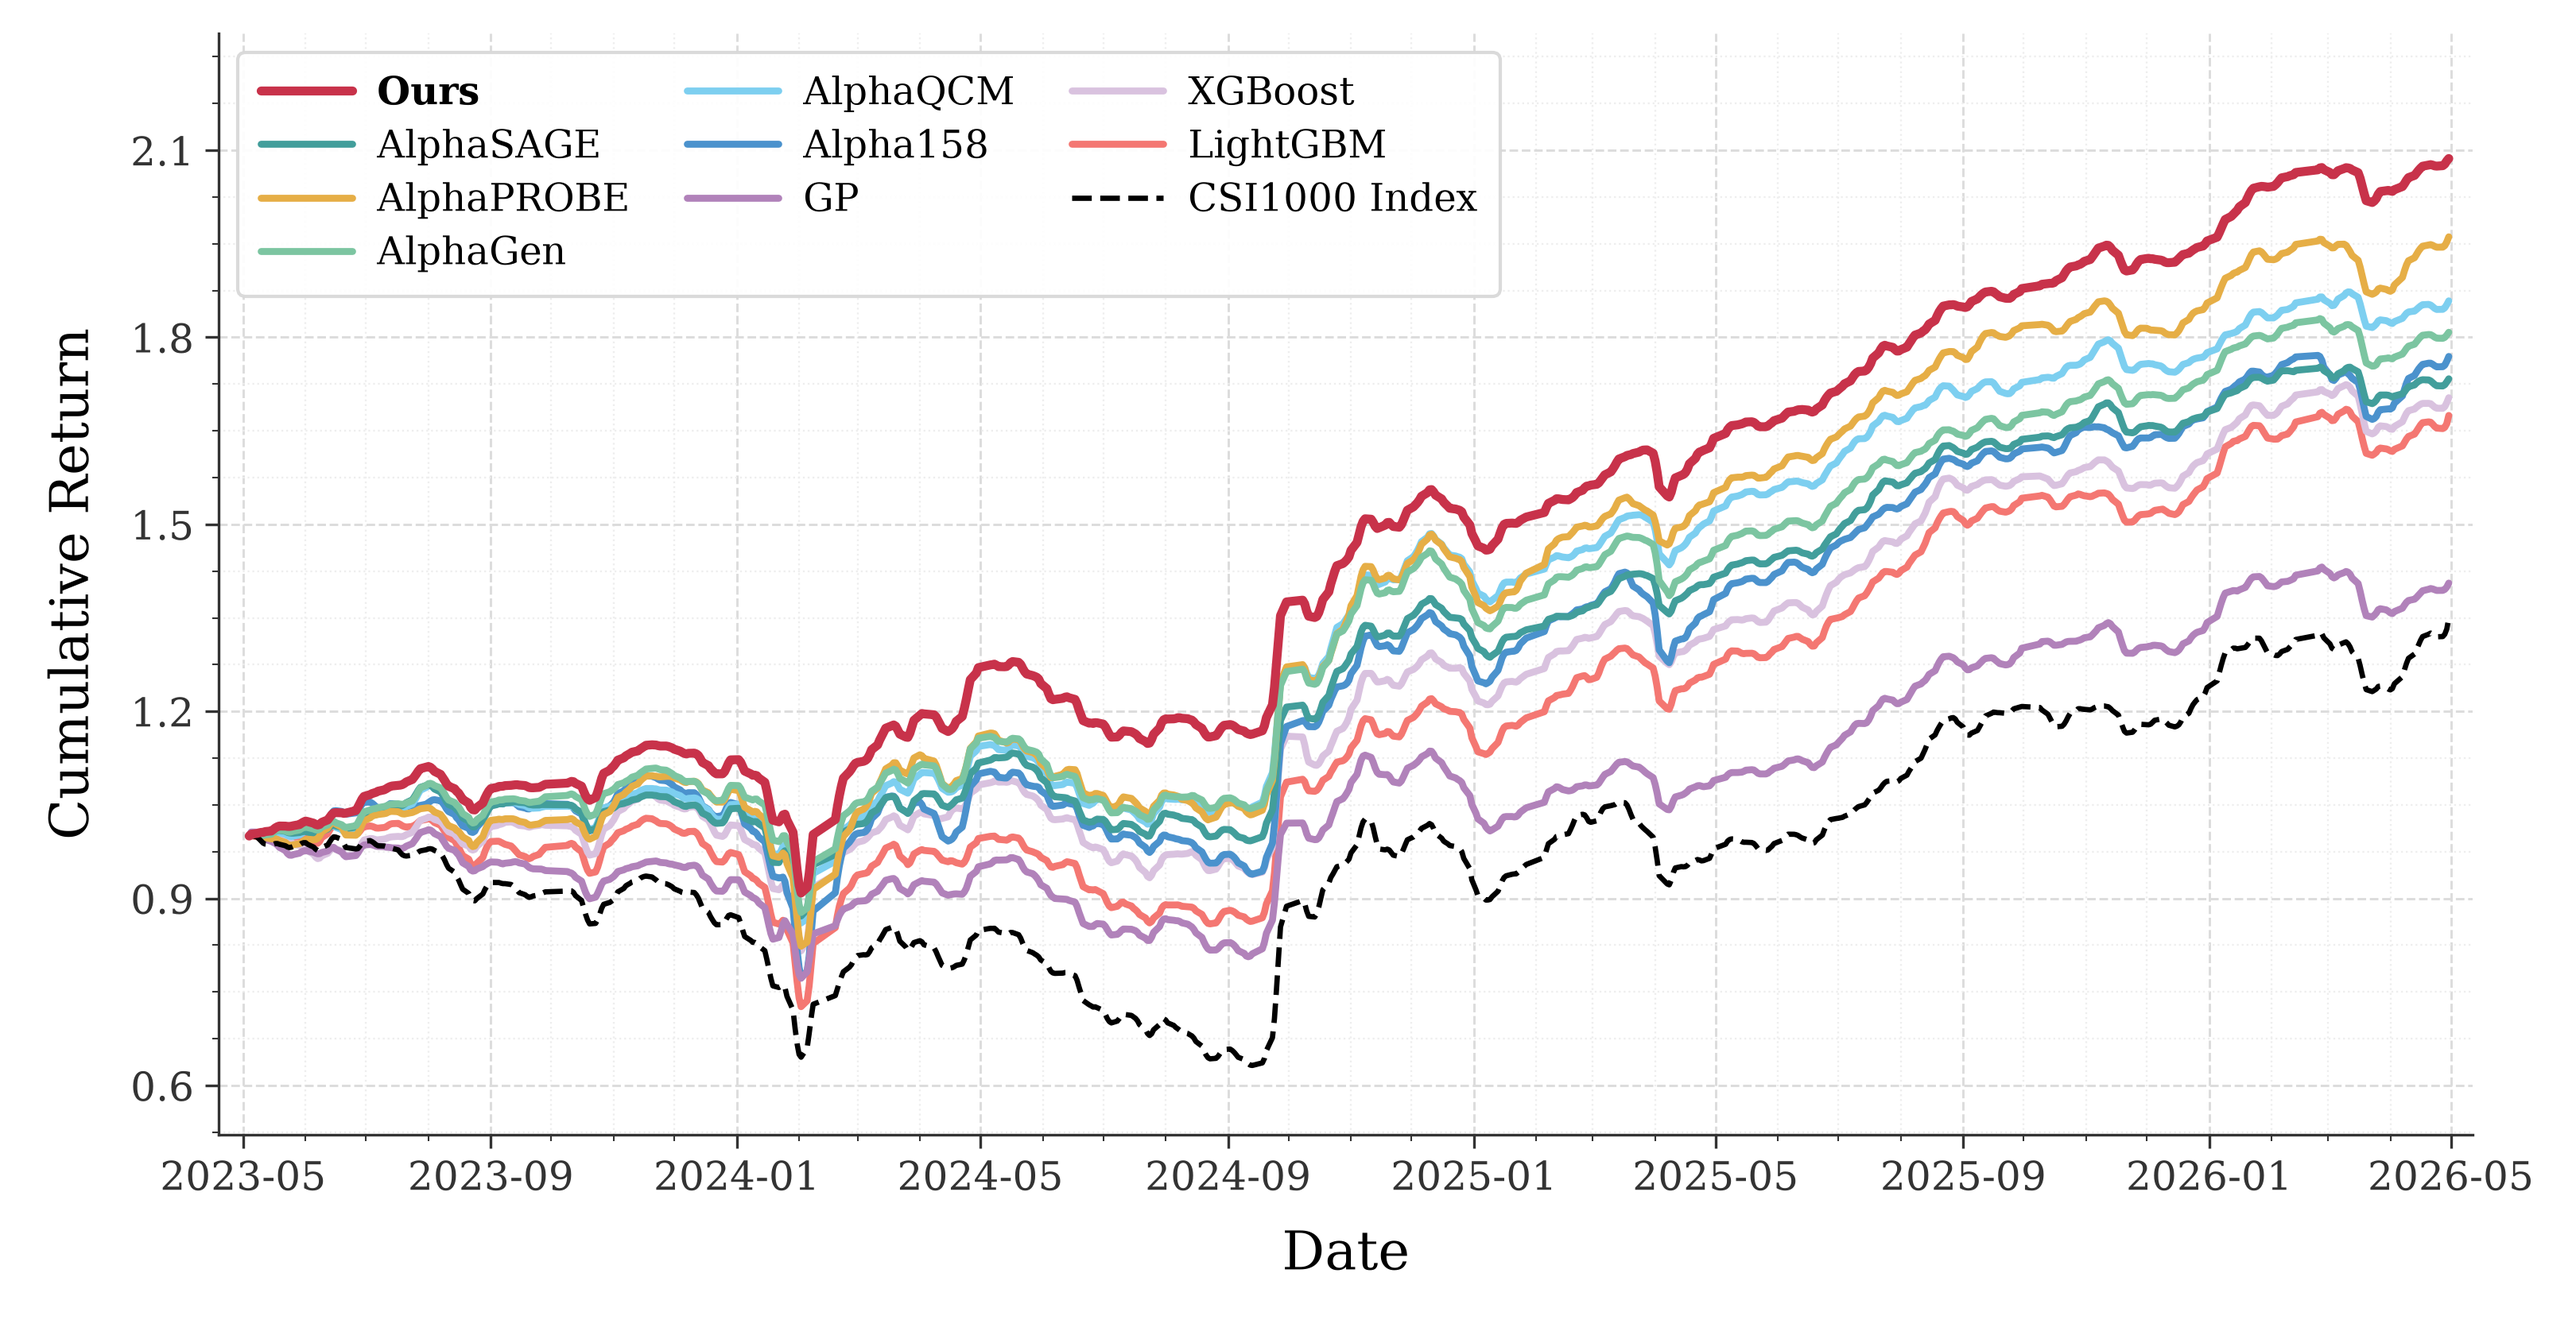
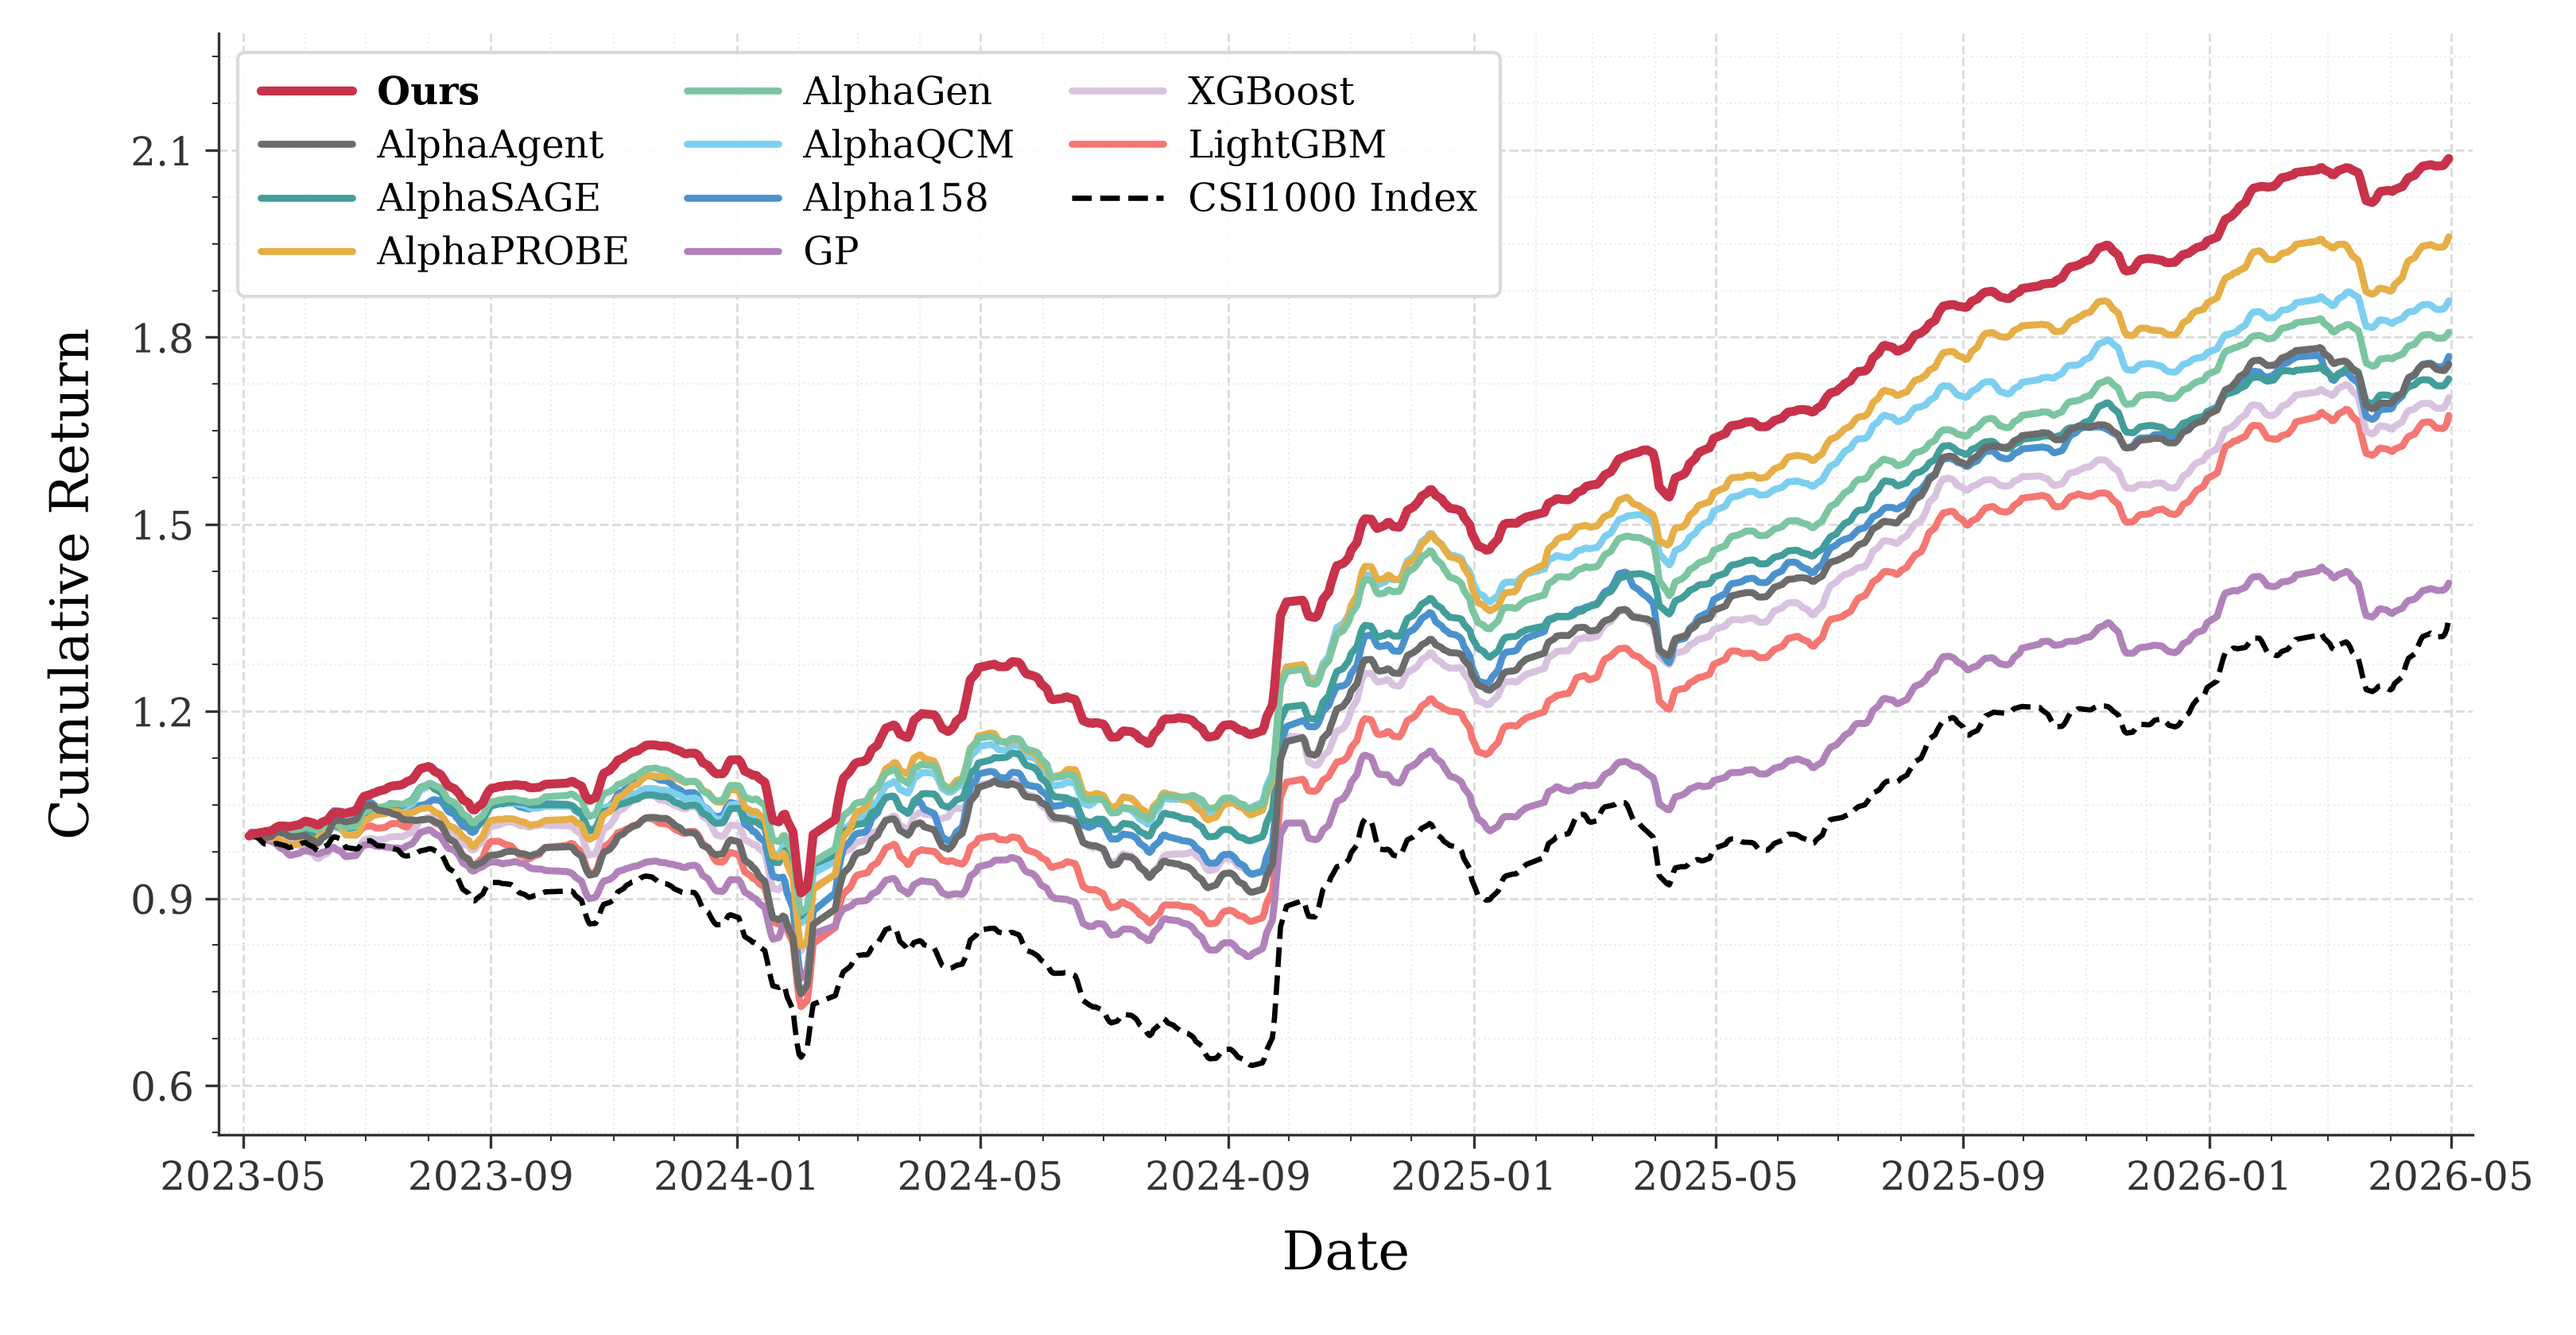
Add AlphaAgent to profit curves, extend AlphaAgent expression ops, ignore backups/export

diff --git a/plot_profit_curve.py b/plot_profit_curve.py
@@ -26,8 +26,9 @@ RUNS: dict = {
         "AlphaSAGE": {"path": "data/gfn_logs/pool_50/gfn_gnn_csi300_50_2-0.01-1.0-1.0-1.0-0.3-linear-0.0/ret_s.npy", "data_start_date": "2023-05-01"},
         "AlphaPROBE": {"path": "data/knowledge_logs/pool_50/kg_dag_and_bayesian_icir_and_mutl_new_no_decay_MiniMax-M3_5_csi300_0.5_7_50_0.9_50_20_0.006_True_True_False_True_0.7_0.1_0.05/adaptive_n20/round_20/ret_s.npy", "data_start_date": "2023-05-01"},
         "AlphaGen": {"path": "data/ppo_logs/pool_20/ppo_csi300_20_0-20260905132532/ppo_csi300_20_0_20260905132532/ret_s.npy", "data_start_date": "2023-05-01"},
-        "Ours": {"path": "data/cf_logs/20261013_225346_506634_csi300_0_MiniMax-M3/ret_s.npy", "data_start_date": "2023-05-01"},
+        "Ours": {"path": "data/cf_logs/20261024_020903_733059_csi300_0_gd-mobile-deepseek-v4.1-flash-1017/ret_s.npy", "data_start_date": "2023-05-01"},
 
+        "AlphaAgent": "data/logs/alphaagent/csi300/validation_combiners_20261102/rank_top3/ret_s.npy",
         "CSI300 Index": {
             "path":            "data/index_real_logs/pool_all/real_csi300/ret_s.npy",
             "data_start_date": "2023-05-01",   # first entry in the .npy file
@@ -47,6 +48,7 @@ RUNS: dict = {
         "AlphaPROBE": "data/knowledge_logs/pool_50/kg_dag_and_bayesian_icir_and_mutl_new_no_decay_MiniMax-M3_5_csi500_0.5_7_50_0.9_50_20_0.006_True_True_False_True_0.7_0.1_0.05/ret_s.npy",
         "AlphaGen": "data/ppo_logs/pool_20/ppo_csi500_20_0-20261013092950/ppo_csi500_20_0_20261013092950/ret_s.npy",
         "Ours": "data/cf_logs/20261014_171245_875336_csi500_1_MiniMax-M3/ret_s.npy",
+        "AlphaAgent": "data/logs/alphaagent/csi500/paper_deepseek_20261023/validation_zoo_v2_20261024/selected_zoo/ret_s.npy",
         "CSI500 Index": {
             "path": "data/index_real_logs/pool_all/real_csi500/ret_s.npy",
             "color": "#000000",
@@ -64,6 +66,7 @@ RUNS: dict = {
         "AlphaPROBE": "data/knowledge_logs/pool_50/kg_dag_and_bayesian_icir_and_mutl_new_no_decay_gd-mobile-deepseek-v4.1-flash-1017_5_csi1000_0.5_7_50_0.9_50_20_0.006_True_True_False_True_0.7_0.1_0.05/ret_s.npy",
         "AlphaGen": "data/ppo_logs/pool_20/ppo_csi1000_20_0-20261014201645/ppo_csi1000_20_0_20261014201645/ret_s.npy",
         "Ours": "data/cf_logs/20261024_224833_312713_csi1000_0_gd-mobile-deepseek-v4.1-flash-1017/ret_s.npy",
+        "AlphaAgent": "data/logs/alphaagent/csi1000/paper_deepseek_20261024/validation_zoo_v2_20261024/trial_best_union/ret_s.npy",
         "CSI1000 Index": {
             "path": "data/index_real_logs/pool_all/real_csi1000/ret_s.npy",
             "color": "#000000",
@@ -86,9 +89,10 @@ PALETTE: dict[str, str] = {
     "AlphaSAGE":  "#429E9B",
     "AlphaPROBE": "#E6AE46",
     "AlphaGen":   "#7CC5A1",
+    "AlphaAgent": "#6B6B6B",
     "Ours":       "#C8324A",
 }
-LEGEND_ORDER = ("Ours", "AlphaSAGE", "AlphaPROBE", "AlphaGen", "AlphaQCM",
+LEGEND_ORDER = ("Ours", "AlphaAgent", "AlphaSAGE", "AlphaPROBE", "AlphaGen", "AlphaQCM",
                 "Alpha158", "GP", "XGBoost", "LightGBM")
 
 # Apply locally so importing this script does not restyle other figures.

diff --git a/src/alpha_cf/alphaagent_expression.py b/src/alpha_cf/alphaagent_expression.py
@@ -101,6 +101,14 @@ def convert(text):
             return f"Sub(0,{visit(node.operand)})"
         if isinstance(node, ast.Call) and isinstance(node.func, ast.Name) and not node.keywords:
             args = [visit(arg) for arg in node.args]
+            if node.func.id == "TS_VAR" and len(args) == 2:
+                return f"Pow(TsStd({args[0]},{args[1]}),2)"
+            if node.func.id == "INV" and len(args) == 1:
+                return f"Div(1,{args[0]})"
+            if node.func.id == "COUNT" and len(args) == 2:
+                return f"TsSum({args[0]},{args[1]})"
+            if node.func.id == "SUMIF" and len(args) == 3:
+                return f"TsSum(Mul({args[0]},{args[2]}),{args[1]})"
             if node.func.id == "LOG" and len(args) == 1:
                 return f"Log(Add({args[0]},1))"
             if node.func.id == "EXP" and len(args) == 1:
